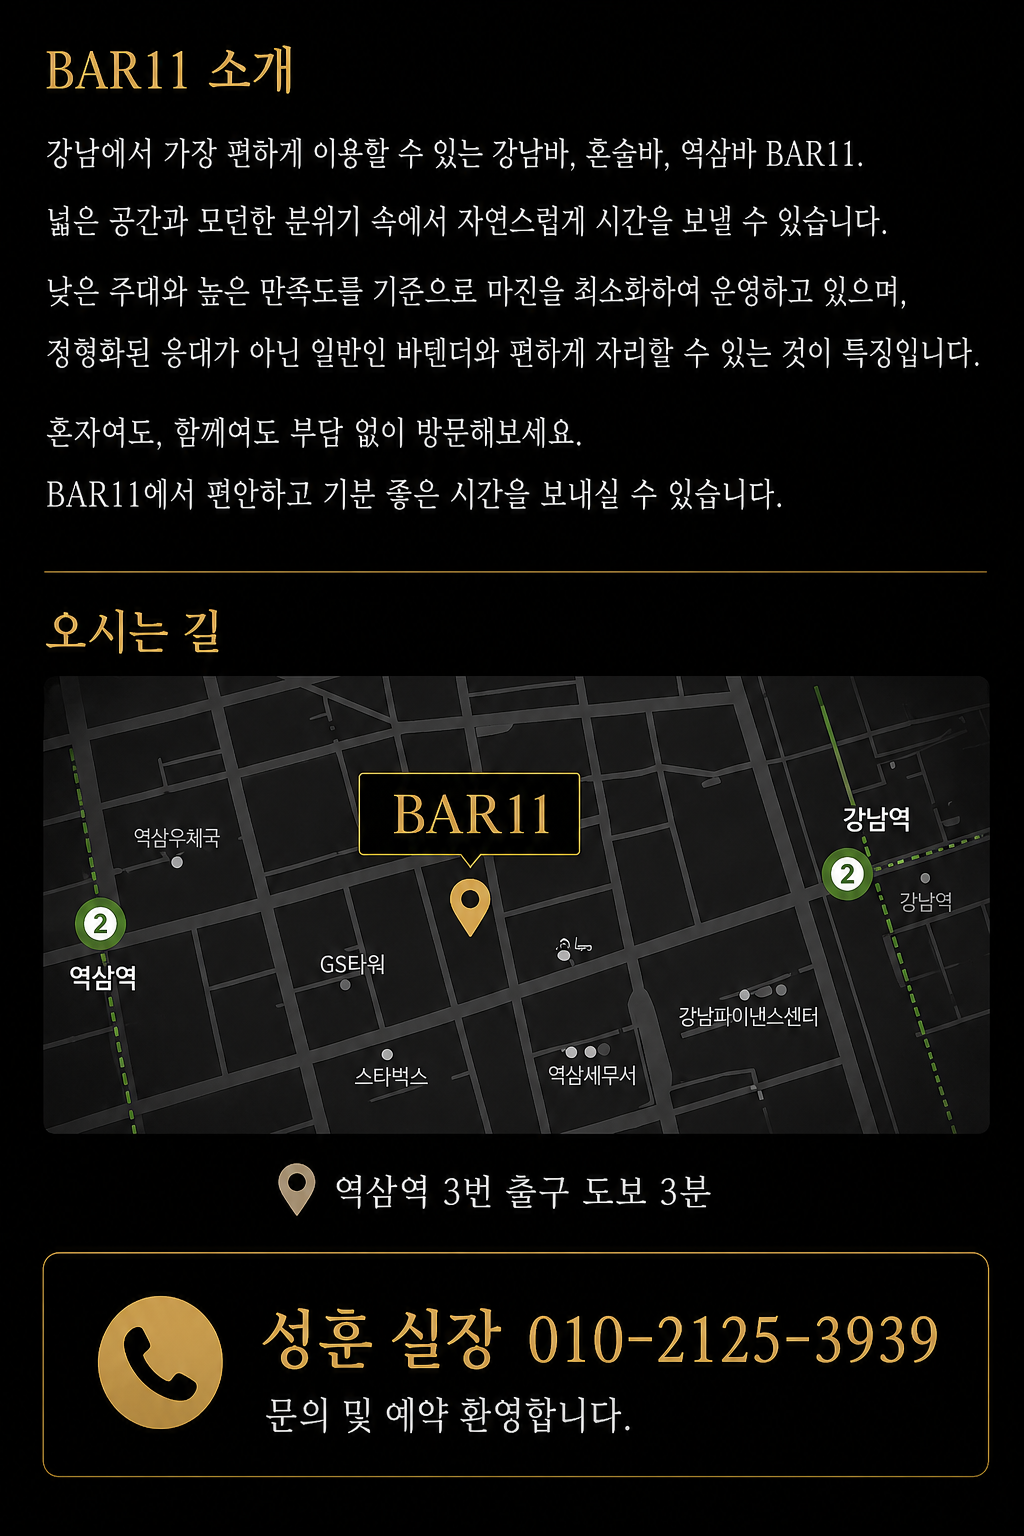
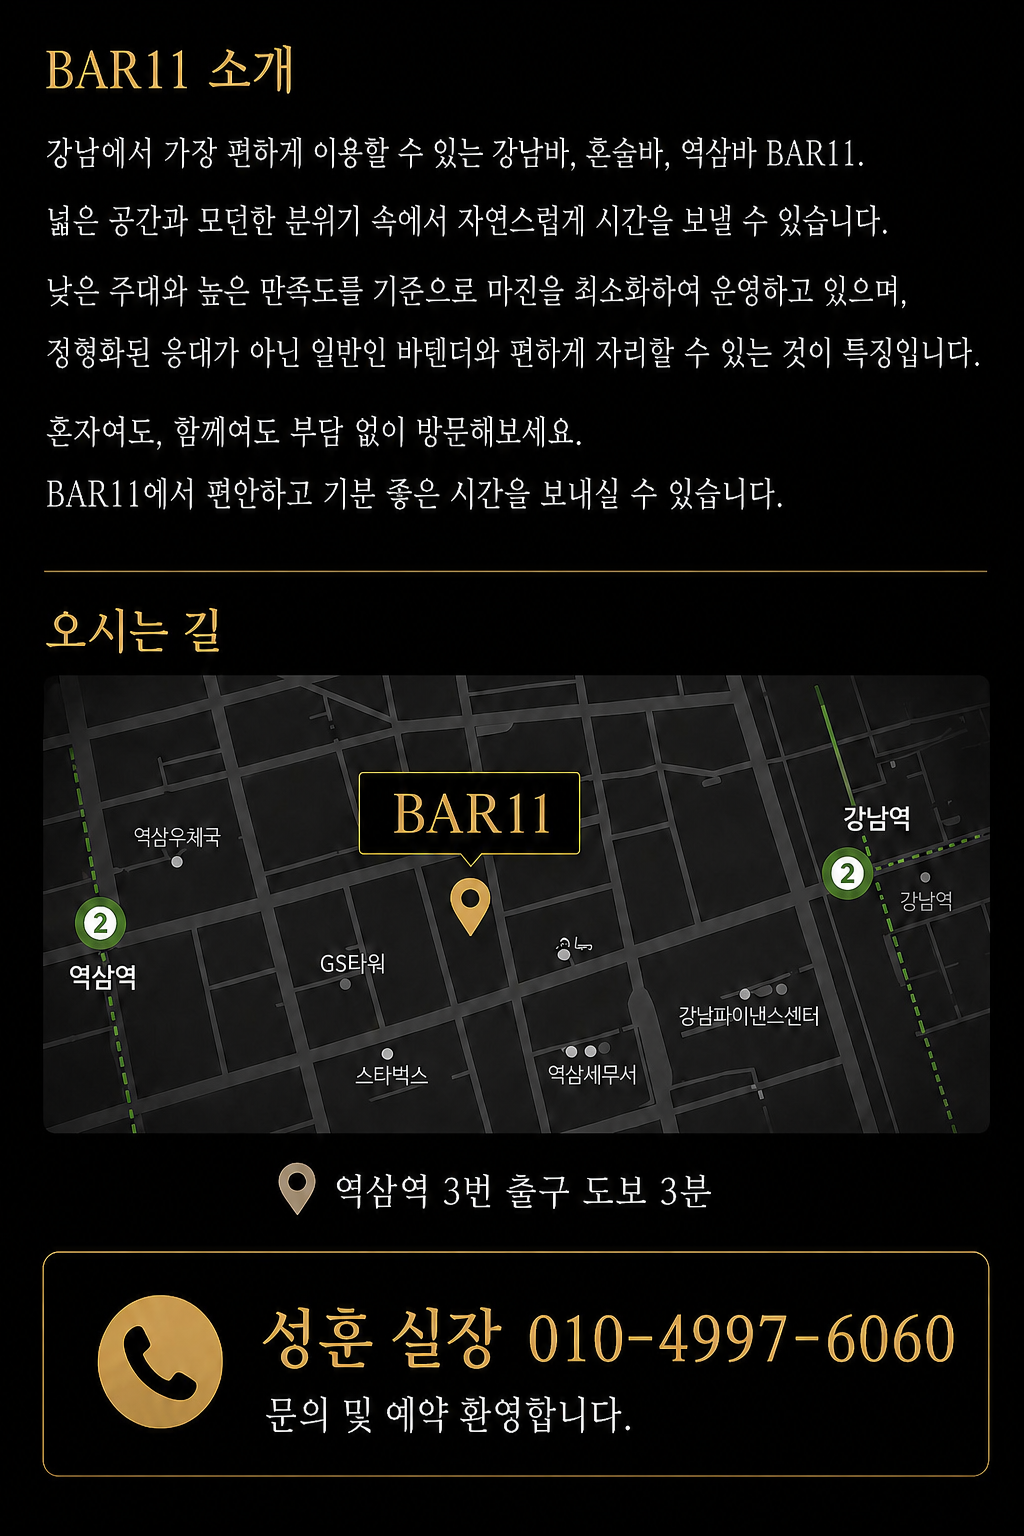
석구 -> 성훈

diff --git a/src/components/info/Review.jsx b/src/components/info/Review.jsx
@@ -17,7 +17,7 @@ const Review = () => {
     {
       title: '"단체모임에 좋음"',
       value:
-        '부스랑 노래방 룸이 있어 사업하시는 지인분들 자리하는데 모임 장소로 적합한 것 같습니다. 석구실장 통해 서비스 많이 받고갑니다.',
+        '부스랑 노래방 룸이 있어 사업하시는 지인분들 자리하는데 모임 장소로 적합한 것 같습니다. 성훈실장 통해 서비스 많이 받고갑니다.',
     },
     {
       title: '"거품없는 가격"',
